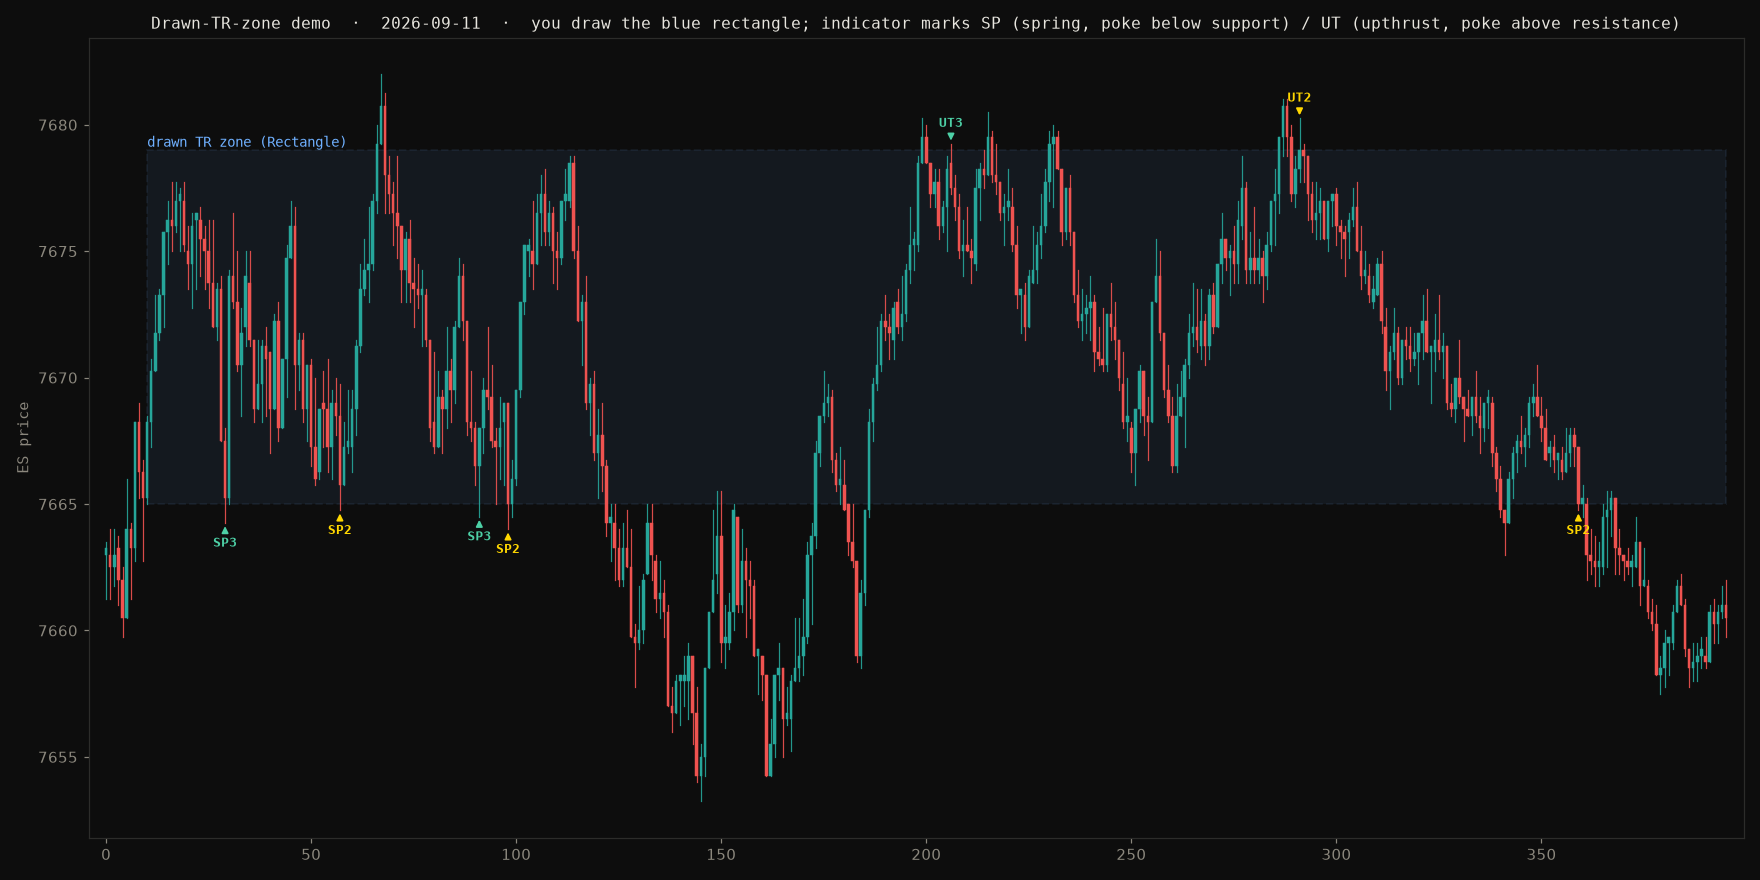
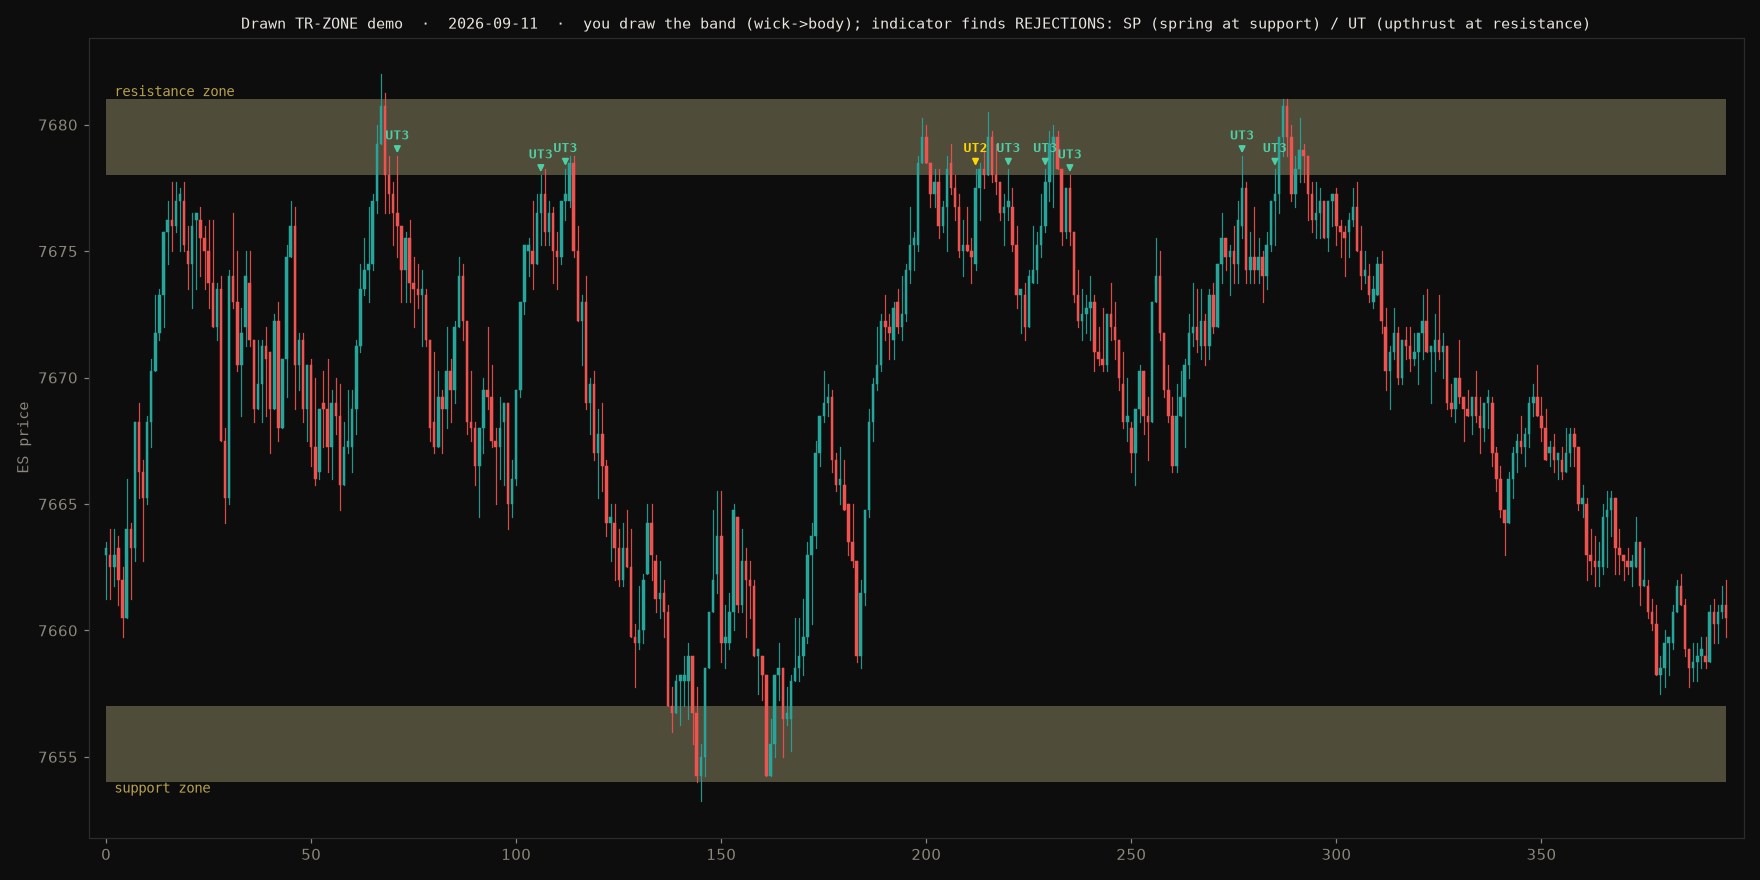
S119-tempo: drawn TR-zone = band (wick->body); indicator marks rejections at the zone
Reworked per user's actual S/R method: a zone is a BAND from the wick extreme to the body
cluster (not a line). The indicator now auto-types each drawn Rectangle -- resistance if
price sits mostly BELOW the band, support if mostly ABOVE -- and marks only the rejection
side: upthrust = tests up into a resistance zone and closes back below it; spring = tests
down into a support zone and closes back above it. Wyckoff-tiered by depth-beyond-extreme +
volume + range. Far fewer, meaningful marks vs the prior every-touch spray. COMPILE_OK; deployed.

drawn_zone_demo.py updated to match (auto-type, rejection logic).

diff --git a/tempo/scripts/drawn_zone_demo.py b/tempo/scripts/drawn_zone_demo.py
@@ -1,10 +1,15 @@
-"""drawn_zone_demo.py — mock of the TRADER-DRAWN TR ZONE feature now in TempoSpeedometer.cs:
-you draw a Rectangle; the indicator reads top=resistance / bottom=support and marks springs
-(poke below support + close back above) and upthrusts (poke above resistance + close back
-below), Wyckoff-tiered by depth+volume+range. Causal: each mark uses only that bar vs the level.
+"""drawn_zone_demo.py — mock of the trader-drawn TR-ZONE feature (matches how the user draws
+S/R: a BAND from the wick extreme to the body cluster). You draw the zone(s); the indicator
+finds springs / upthrusts as REJECTIONS at the zone:
 
-    python tempo/scripts/drawn_zone_demo.py DAY TOP BOT [START_BAR]
-    e.g. python tempo/scripts/drawn_zone_demo.py 2026-09-14 7647 7624 150
+  resistance zone (at a high): a bar tests UP into the zone and CLOSES back below it  -> UPTHRUST
+  support zone   (at a low):   a bar tests DOWN into the zone and CLOSES back above it -> SPRING
+
+Zone TYPE is auto-detected from where price sits (mostly below = resistance, mostly above =
+support). Wyckoff tier (#3/#2/#1) from depth-beyond-extreme + volume + range.
+
+    python tempo/scripts/drawn_zone_demo.py DAY  TOP1 BOT1  [TOP2 BOT2 ...]
+    e.g. python tempo/scripts/drawn_zone_demo.py 2026-09-11 7681 7678  7657 7654
 """
 from __future__ import annotations
 import sys
@@ -22,20 +27,19 @@ ENG = ROOT / "tempo" / "outputs" / "tempo_engine_bars.parquet"
 OUT = ROOT / "tempo" / "outputs"
 
 
-def tier_at(i, h, l, v, rng, up, lvl):
+def tier(i, h, l, v, rng, outer, up):
     avR = rng[max(0, i - 8):i].mean() if i > 0 else rng[i]
     avV = v[max(0, i - 8):i].mean() if i > 0 else v[i]
-    pen = (h[i] - lvl) if up else (lvl - l[i])
-    inten = ((pen / avR if avR > 0 else 1) + (v[i] / avV if avV > 0 else 1)
+    pen = max(0.0, (h[i] - outer) if up else (outer - l[i]))   # how far beyond the extreme edge
+    inten = ((pen / avR if avR > 0 else 0) + (v[i] / avV if avV > 0 else 1)
              + (rng[i] / avR if avR > 0 else 1)) / 3
     return 0 if inten <= 0.85 else (2 if inten >= 1.50 else 1)
 
 
 def main():
-    day = sys.argv[1] if len(sys.argv) > 1 else "2026-09-14"
-    top = float(sys.argv[2]) if len(sys.argv) > 2 else 7647.0
-    bot = float(sys.argv[3]) if len(sys.argv) > 3 else 7624.0
-    start = int(sys.argv[4]) if len(sys.argv) > 4 else 150
+    day = sys.argv[1]
+    nums = [float(x) for x in sys.argv[2:]]
+    zones = [(max(nums[k], nums[k + 1]), min(nums[k], nums[k + 1])) for k in range(0, len(nums), 2)]
     df = pd.read_parquet(ENG); df = df[df.state >= 0]
     g = df[df.date == day].reset_index(drop=True)
     o, h, l, c = (g[x].to_numpy() for x in ("open", "high", "low", "close"))
@@ -47,31 +51,39 @@ def main():
         ax.plot([i, i], [l[i], h[i]], color=col, lw=0.8, alpha=0.9, zorder=2)
         ax.add_patch(Rectangle((i - 0.3, min(o[i], c[i])), 0.6, abs(c[i] - o[i]) or 0.25,
                      facecolor=col, edgecolor=col, lw=0.3, zorder=3))
-    # the "drawn" rectangle (what the trader draws; indicator reads top/bot)
-    ax.add_patch(Rectangle((start, bot), (n - 1) - start, top - bot, facecolor="#6fb0ff",
-                 alpha=0.08, edgecolor="#6fb0ff", lw=1.3, ls="--", zorder=1))
-    ax.annotate("drawn TR zone (Rectangle)", (start, top), color="#6fb0ff", fontsize=9,
-                family="monospace", va="bottom", ha="left")
-
     spc = {0: "#4dd0a6", 1: "#ffd700", 2: "#ef5350"}; tl = {0: "3", 1: "2", 2: "1"}
-    nsp = nut = 0
-    for i in range(max(start, 1), n):
-        up = h[i] > top and c[i] <= top and h[i - 1] <= top
-        sp = l[i] < bot and c[i] >= bot and l[i - 1] >= bot
-        if not (up or sp):
-            continue
-        tr = tier_at(i, h, l, v, rng, up, top if up else bot)
-        nm = ("UT" if up else "SP") + tl[tr]
-        yv = h[i] if up else l[i]
-        ax.annotate(nm, (i, yv), xytext=(0, 9 if up else -9), textcoords="offset points",
-                    ha="center", va="bottom" if up else "top", color=spc[tr], fontsize=8.5,
-                    fontweight="bold", family="monospace", zorder=7,
-                    arrowprops=dict(arrowstyle="-|>", color=spc[tr], lw=1.2))
-        nut += up; nsp += sp
-    print(f"{day}: drawn zone {bot:.2f}-{top:.2f} from bar {start} -> {nsp} springs, {nut} upthrusts")
-    ax.set_title(f"Drawn-TR-zone demo  ·  {day}  ·  you draw the blue rectangle; indicator marks "
-                 f"SP (spring, poke below support) / UT (upthrust, poke above resistance)",
-                 color="#e8e6df", fontsize=10.5, family="monospace")
+    for (top, bot) in zones:
+        below = int(np.sum(c < bot)); above = int(np.sum(c > top))
+        is_res = below >= above                                 # price mostly below => resistance
+        ax.add_patch(Rectangle((0, bot), n - 1, top - bot, facecolor="#fff2b0", alpha=0.28,
+                     edgecolor="none", zorder=1))
+        ax.annotate("resistance zone" if is_res else "support zone", (2, top if is_res else bot),
+                    color="#b8a24e", fontsize=9, family="monospace",
+                    va="bottom" if is_res else "top", ha="left")
+        ns = nu = 0
+        for i in range(1, n):
+            if is_res:
+                hit = h[i] >= bot and c[i] < bot and h[i - 1] < bot   # tested into zone, closed below
+                if hit:
+                    tr = tier(i, h, l, v, rng, top, True); nm = "UT" + tl[tr]
+                    ax.annotate(nm, (i, h[i]), xytext=(0, 9), textcoords="offset points",
+                                ha="center", va="bottom", color=spc[tr], fontsize=8.5,
+                                fontweight="bold", family="monospace", zorder=7,
+                                arrowprops=dict(arrowstyle="-|>", color=spc[tr], lw=1.2)); nu += 1
+            else:
+                hit = l[i] <= top and c[i] > top and l[i - 1] > top   # tested into zone, closed above
+                if hit:
+                    tr = tier(i, h, l, v, rng, bot, False); nm = "SP" + tl[tr]
+                    ax.annotate(nm, (i, l[i]), xytext=(0, -9), textcoords="offset points",
+                                ha="center", va="top", color=spc[tr], fontsize=8.5,
+                                fontweight="bold", family="monospace", zorder=7,
+                                arrowprops=dict(arrowstyle="-|>", color=spc[tr], lw=1.2)); ns += 1
+        print(f"  zone {bot:.2f}-{top:.2f} ({'RES' if is_res else 'SUP'}): "
+              f"{nu} upthrusts, {ns} springs")
+
+    ax.set_title(f"Drawn TR-ZONE demo  ·  {day}  ·  you draw the band (wick->body); indicator "
+                 f"finds REJECTIONS: SP (spring at support) / UT (upthrust at resistance)",
+                 color="#e8e6df", fontsize=10, family="monospace")
     ax.tick_params(colors="#8b877d")
     for s in ax.spines.values():
         s.set_color("#2c2c2a")

diff --git a/nt8/indicators/TempoSpeedometer.cs b/nt8/indicators/TempoSpeedometer.cs
@@ -996,7 +996,15 @@ namespace NinjaTrader.NinjaScript.Indicators
 					int lo = Math.Max(b0, ChartBars.FromIndex);
 					int hi = Math.Min(ChartBars.ToIndex, CurrentBar);
 					if (hi < lo) continue;
-					// show the levels the indicator READ off the rectangle
+					// zone TYPE: resistance if price sits mostly BELOW the band, support if mostly ABOVE
+					int below = 0, above = 0;
+					for (int k = b0; k <= hi; k++)
+					{
+						if (Bars.GetClose(k) < bot) below++;
+						else if (Bars.GetClose(k) > top) above++;
+					}
+					bool isRes = below >= above;
+					// show the band the indicator READ off the rectangle
 					float xL = chartControl.GetXByBarIndex(ChartBars, lo);
 					float xR = chartControl.GetXByBarIndex(ChartBars, hi);
 					float yT = chartScale.GetYByValue(top), yB = chartScale.GetYByValue(bot);
@@ -1004,8 +1012,11 @@ namespace NinjaTrader.NinjaScript.Indicators
 					RenderTarget.DrawLine(new SharpDX.Vector2(xL, yB), new SharpDX.Vector2(xR, yB), edge, 1.2f);
 					for (int i = Math.Max(lo, 1); i <= hi; i++)
 					{
-						bool up = Bars.GetHigh(i) > top && Bars.GetClose(i) <= top && Bars.GetHigh(i - 1) <= top;
-						bool sp = Bars.GetLow(i) < bot && Bars.GetClose(i) >= bot && Bars.GetLow(i - 1) >= bot;
+						// REJECTION at the zone: test into the band, close back out the other side
+						bool up = isRes && Bars.GetHigh(i) >= bot && Bars.GetClose(i) < bot
+							&& Bars.GetHigh(i - 1) < bot;                       // upthrust at resistance
+						bool sp = !isRes && Bars.GetLow(i) <= top && Bars.GetClose(i) > top
+							&& Bars.GetLow(i - 1) > top;                        // spring at support
 						if (!up && !sp) continue;
 						int tier = ShakeoutTierAt(i, up, up ? top : bot);
 						SolidColorBrush br = tier == 0 ? g : tier == 2 ? r : a;
